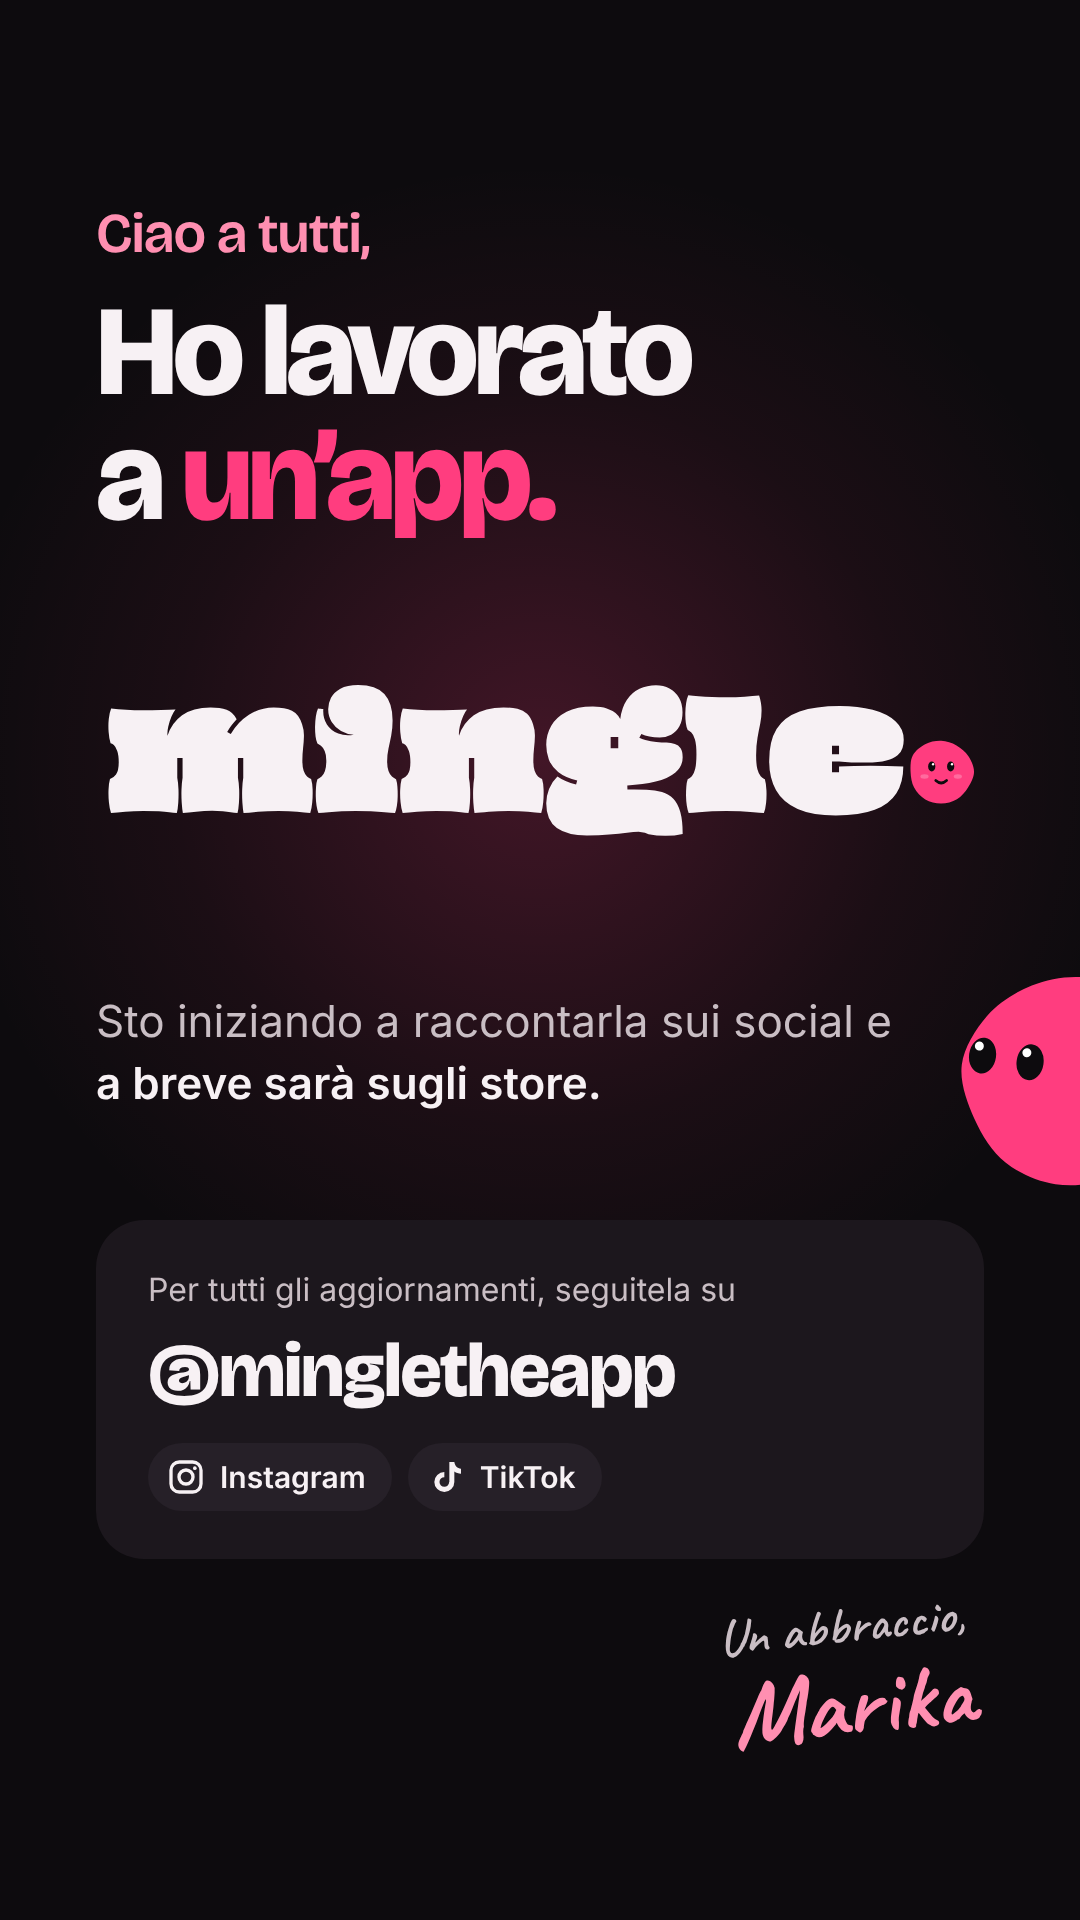
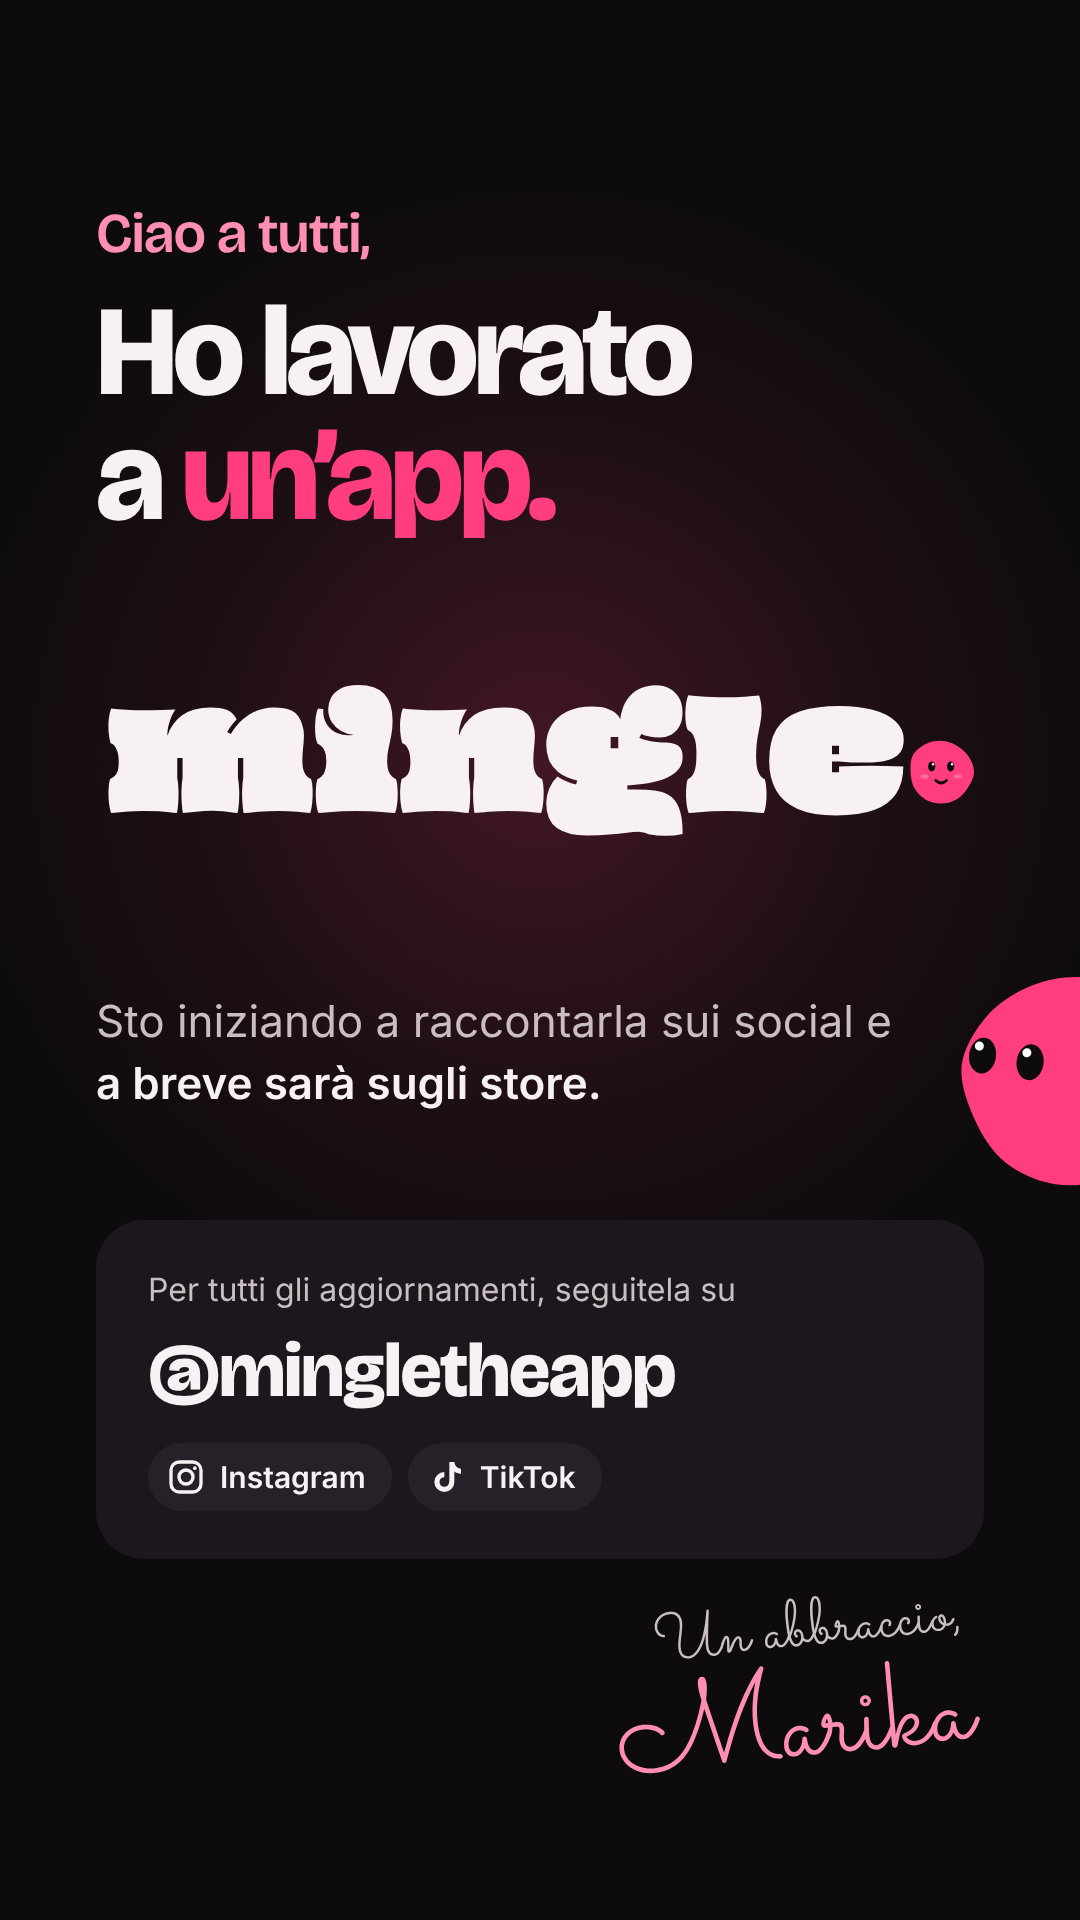
Stato WhatsApp: firma in Sacramento
Claude-Session: https://claude.ai/code/session_01XDMhier1WEJzKbpSLEJqDr

Changed region(s): [[0.6417, 0.8125, 0.9167, 0.9375], [0.6111, 0.9062, 0.6417, 0.9375]]

diff --git a/docs/social/stato-whatsapp.html b/docs/social/stato-whatsapp.html
@@ -1,6 +1,6 @@
 <!doctype html>
 <html><head><meta charset="utf-8">
-<link rel="stylesheet" href="https://fonts.googleapis.com/css2?family=Bricolage+Grotesque:opsz,wght@12..96,400..800&family=Inter:wght@400;500;600&family=DM+Mono:wght@400;500&family=Caveat:wght@600;700&display=swap">
+<link rel="stylesheet" href="https://fonts.googleapis.com/css2?family=Bricolage+Grotesque:opsz,wght@12..96,400..800&family=Inter:wght@400;500;600&family=DM+Mono:wght@400;500&family=Sacramento&display=swap">
 <style>
 *{margin:0;padding:0;box-sizing:border-box}
 body{width:1080px;height:1920px;overflow:hidden;background:#0D0B0E;color:#F7F1F4;font-family:Inter,sans-serif;position:relative}
@@ -19,8 +19,8 @@ body{width:1080px;height:1920px;overflow:hidden;background:#0D0B0E;color:#F7F1F4
 .follow .handle{font-family:'Bricolage Grotesque';font-weight:800;font-size:76px;letter-spacing:-2px;margin-top:14px;color:#F7F1F4}
 .follow .apps{display:flex;gap:16px;margin-top:26px}
 .app{display:flex;align-items:center;gap:14px;background:#262028;border-radius:999px;padding:14px 26px 14px 18px;font-size:30px;font-weight:600}
-.sign{position:absolute;right:110px;top:1600px;font-family:'Caveat';font-weight:700;font-size:96px;line-height:1;color:#FF8FB1;transform:rotate(-6deg);text-align:right}
-.sign small{display:block;font-weight:600;font-size:52px;color:#C9BEC4;margin-bottom:4px}
+.sign{position:absolute;right:110px;top:1600px;font-family:'Sacramento';font-weight:400;font-size:124px;line-height:1;color:#FF8FB1;transform:rotate(-6deg);text-align:right}
+.sign small{display:block;font-weight:400;font-size:66px;color:#C9BEC4;margin-bottom:4px}
 .peek{position:absolute;right:-140px;top:930px;width:300px;transform:scaleX(-1) rotate(-8deg)}
 </style></head><body>
 <div class="glow"></div>
